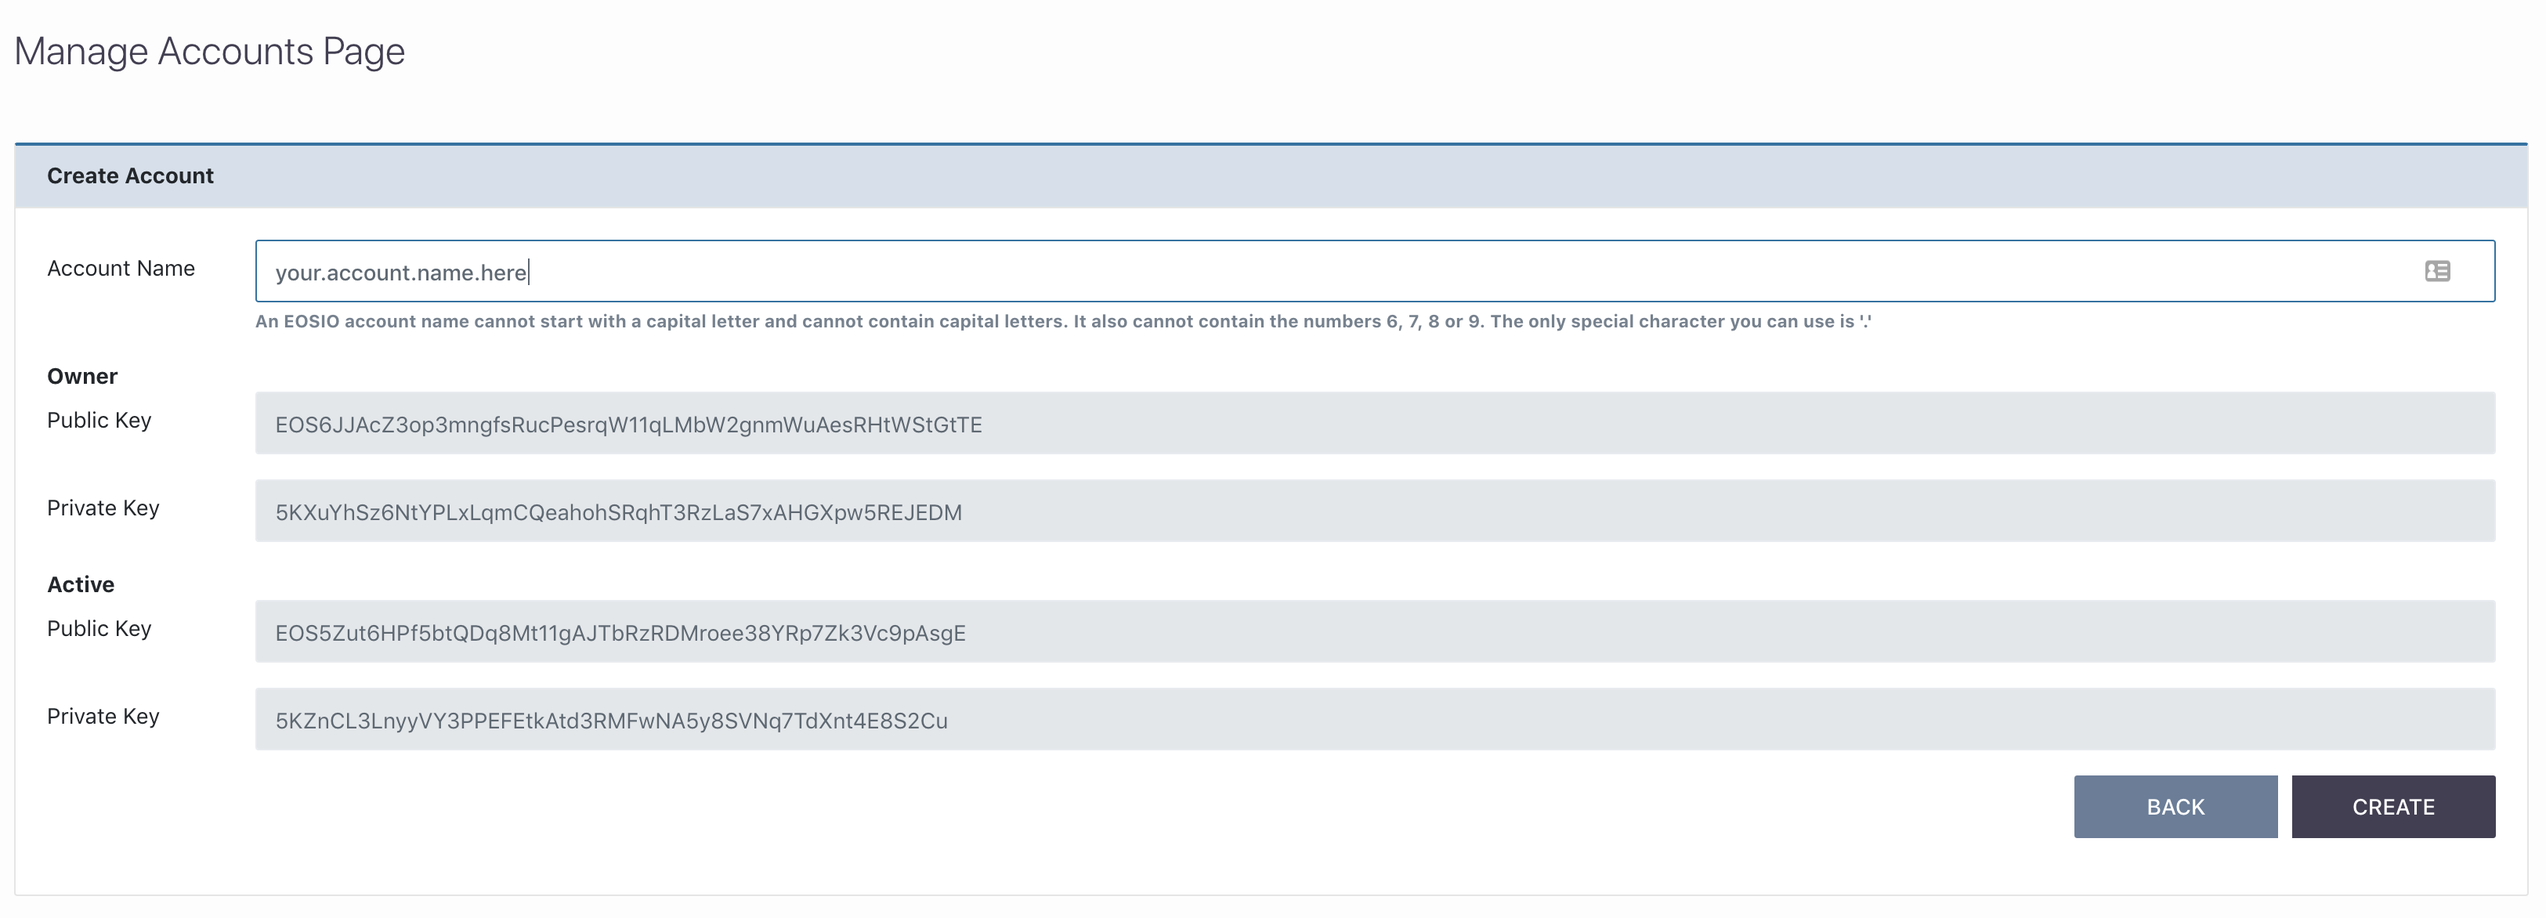
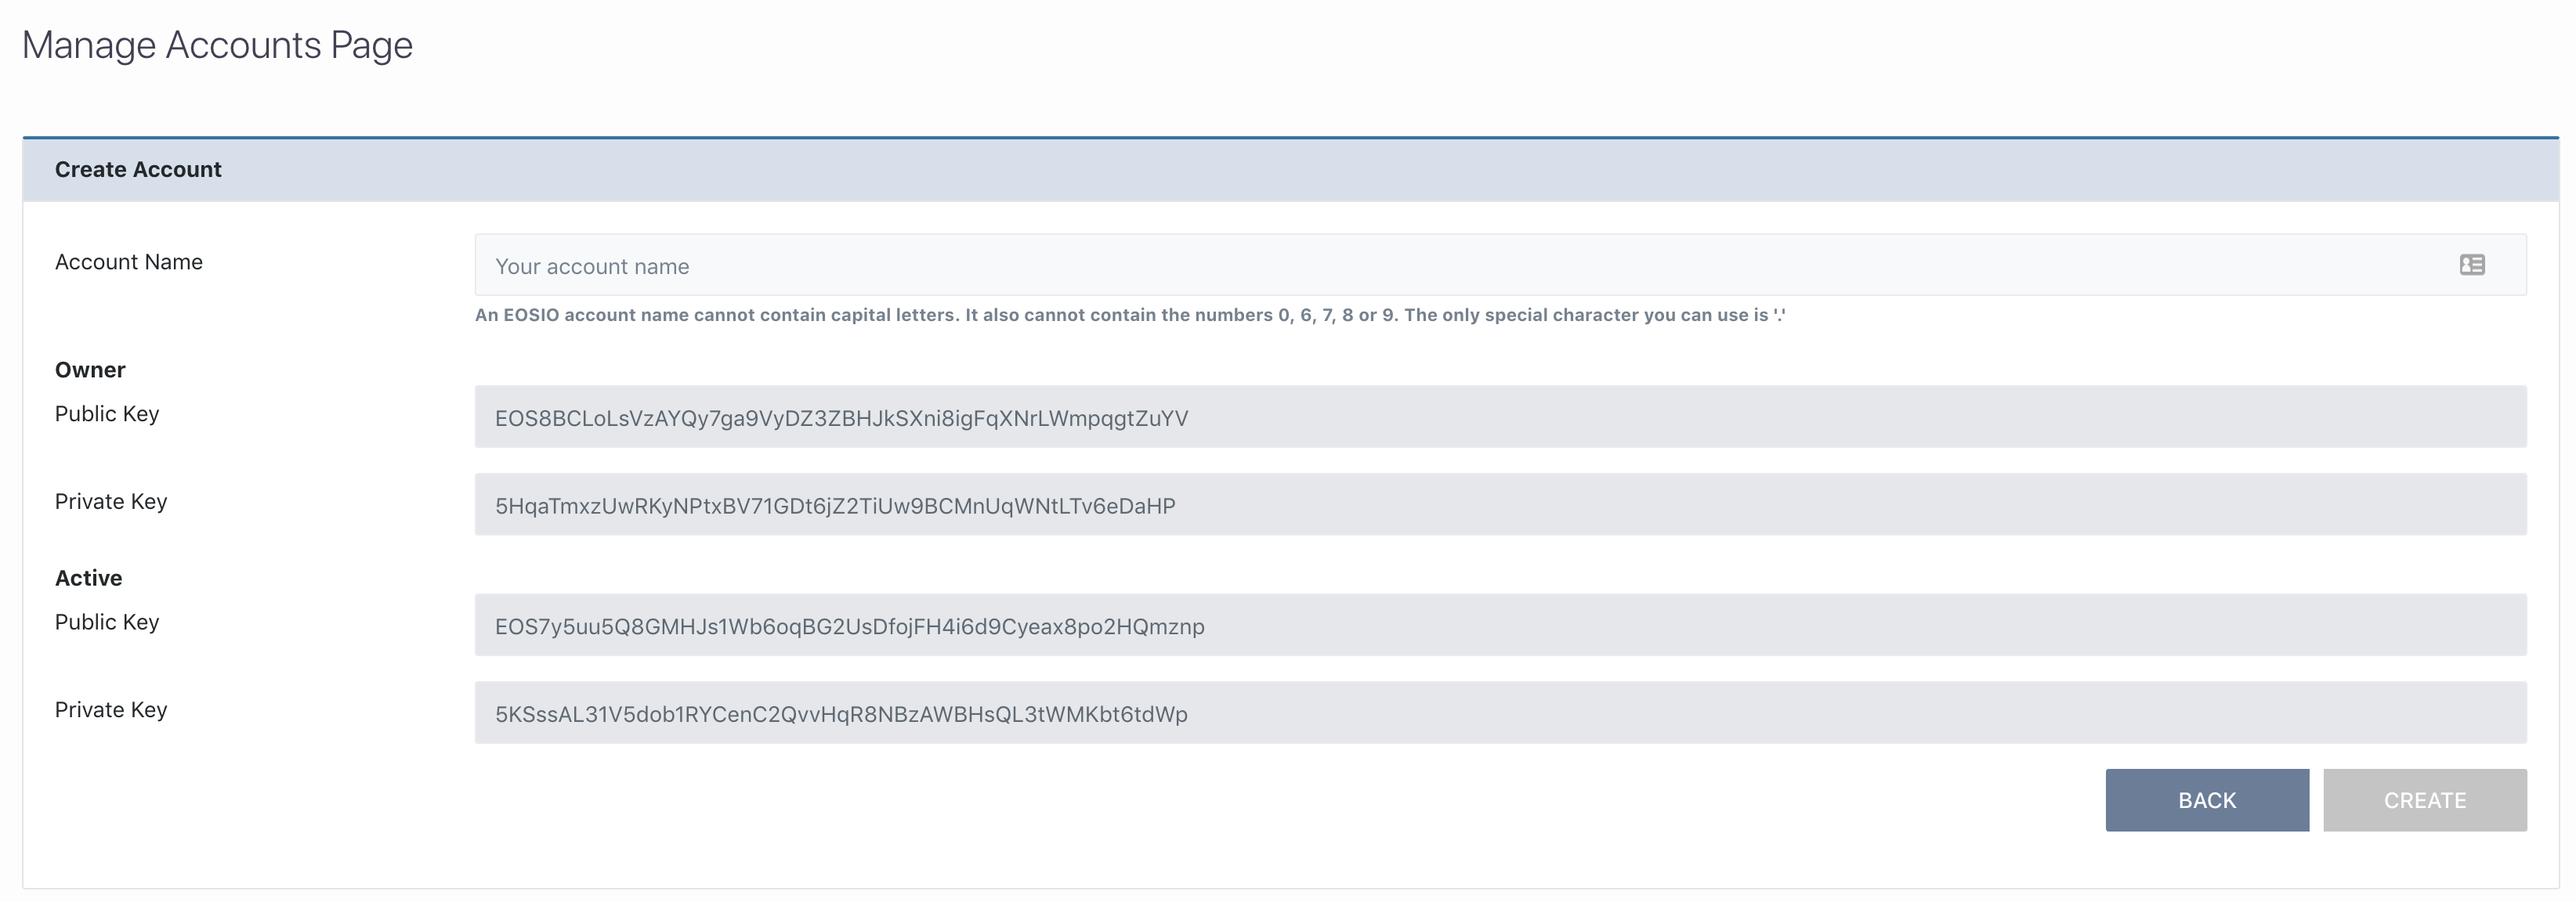
Incoming doc update (#123)
* Update main README.md

* Rewrite section on init and start commands for eosio-explorer, update pictures in push action page

* Updated pictures for permissions page

* Small doc updates

* Added new --set-endpoints option to start and init command description

* Update docs abot init command

* Update start commands

* Update init command details

diff --git a/README.md b/README.md
@@ -17,13 +17,15 @@
    * [Main EOSIO Dependencies](#main-eosio-dependencies)
    * [Platform Support](#platform-support)
    * [Required Tools](#required-tools)
+   * [Warning for Future Releases](#warning-for-future-releases)
 * [Installation](#installation)
    * [For Users](#for-users)
    * [For Contributors](#for-contributors)
    * [OS Platform Specific](#os-platform-specific)
 * [Usage](#usage)
-    * [Starting the tool](#starting-the-tool)
-    * [Stopping the tool](#stopping-the-tool)
+    * [Starting the Tool](#starting-the-tool)
+    * [Stopping the Tool](#stopping-the-tool)
+    * [Initializing with Sample Data](#initializing-with-sample-data)
     * [Modes](#modes)
     * [Using PM2 with the Tool](#using-pm2)
 * [Links to Documentation](#links-to-documentation)
@@ -84,6 +86,14 @@ The tool uses the following:
 :warning: - When using Docker for this tool, we require a minimum resource of **4 CPU, 8 GB memory allocation**.
 
 :warning: - Currently, the project supports `react-scripts v2.x.x` but **not** `react-scripts v3.x.x` in your global dependency (check `yarn global list`).
+
+### Warning for Future Releases 
+
+Applies to releases `> 0.3.1`:
+
+Originally, creating a local instance of `nodeos` using this tool would allow you to use an `eosio` account whose permission credentials are stored locally on the front-end. Specifically, it is hard-coded and could not be changed. However, moving forward, this `eosio` account will now be initialized in the database. **If you connect to a `nodeos` instance using an older version of this tool, you will no longer be able to access the default `eosio` permissions for that node** if you are using future versions of this tool. 
+
+For users or developers using older versions of this tool, **please update** as soon as possible and re-initialize your blockchain as to provide other users with the ability to use these permissions. Furthermore, you can choose to change the public keys of these `eosio` permissions and treat them as if they were normal accounts. **Keep in mind that doing this means you and any other users are now responsible for the new private keys, the tool will not keep track of the private keys for you if you change your connection.** 
 
 ## Installation
 
@@ -173,7 +183,10 @@ Commands:
                     --server-mode - Starts the blockchain environment for the tool without
                                     opening the web application
                     --clear-browser-storage - Starts the tool with clearing browser local storage
-                    -d / --delete - Removes existing Docker containers and clear the browser local storage
+                    -del / --delete - Removes existing Docker containers and clear the browser local storage
+                    Only available in production mode:
+                    --set-endpoints - Prompts user to input the existing nodeos and MongoDB instance endpoints to start the tool
+                    node=<nodeos_endpoint>  db=<mongodb_endpoint> - Starts the tool by connecting to the nodeos and MongoDB endpoints passed
                     Below flag(s) only work in development mode by git cloning the repo:
                     -dev / --develop - Starts the tool in development mode
                     -b / --build - Force building the gui of the tool
@@ -190,21 +203,62 @@ Commands:
 
 You can also add the `-h` flag to any of the commands listed above to view the available flags for each command within the terminal.
 
-### Starting the tool
+### Starting the Tool
 
-Below is a short explanation about the different ways to start the tool.
+There are the ways to start the tool depending on what you need or want to accomplish:
 
 ```bash
 eosio-explorer init
 ```
-This command will build the different docker images, remove existing data (in MongoDB, local Blockchain and Local Storage) and start the docker containers along with the application.
 
 ```bash
-eosio-explorer start
+eosio-explorer start 
 ```
-This command will start/resume the docker containers and the application.
 
-### Stopping the tool
+```bash
+eosio-explorer 
+```
+
+Running `eosio-explorer` without any command is equivalent to running `eosio-explorer start`
+
+This section will detail the specific differences between the two commands and help you decide when you should use one or the other.
+
+#### `init`
+
+The `init` command will perform the following operations when starting the tool:
+
+1. Create a config file which stores the Nodeos and MongoDB instance endpoint based on user selction.
+2. Setting up and copying the initial configurations for the tool
+3. Checking and building Docker images if necessary
+4. Check if package dependencies need to be installed. **This step won't execute if you have installed this tool with `yarn global`.**
+5. Clear the local storage, if it needs to be cleared. Otherwise, just provide the initial state
+6. Forcefully remove any existing Docker containers and volumes before starting new ones
+7. Operations indicated by command flags/options
+
+Therefore, you would want to use this command under these general circumstances:
+
+1. You just installed the tool
+2. You want to re-initialize the tool after installing an update (rebuilding Docker images, etc.)
+3. You want to completely wipe your blockchain and database, start from scratch.
+4. You want to re-initialize the tool after changing some configuration data
+
+#### `start`
+
+The `start` command will just do the following:
+
+1. Try to resume stopped Docker containers. **If no Docker containers exist, new ones will be started**. 
+2. Operations indicated by command flags/options
+
+Therefore, you would want to use this command under these general circumstances:
+
+1. You want to start the tool normally (without checking for updates)
+2. You have stopped Docker containers and want to resume a locally created blockchain
+
+Ideally, for each update installed, you want to run `init` command once, and then just use `start` thereafter. 
+
+Using the `start` command assumes you have already built and installed all necessary dependencies. 
+
+### Stopping the Tool
 
 :warning: - Proper way to pause/stop the docker containers is to use the below command, if you don't stop the docker containers properly then you may lose the data on the blockchain. Also, use this command and stop docker containers before shutting down the system to save data.
 
@@ -213,6 +267,19 @@ eosio-explorer stop_dockers
 ```
 
 Then use `eosio-explorer start` to resume/restart the docker containers.
+
+### Initializing with Sample Data 
+
+If you want to start or initialize a new blockchain with sample accounts, you can do the following:
+
+```bash
+eosio-explorer init --sample-data 
+eosio-explorer start --sample-data
+```
+
+If you aren't currently running an existing blockchain, the tool will then create your local `nodeos` instance with sample accounts already inserted into your database and blockchain. 
+
+:warning: - If you already have a blockchain running, whether it is stopped or not, the `--sample-data / -s` flag **will do nothing**. 
 
 ### Modes
 

diff --git a/docs/guides/permissions/update_account.md b/docs/guides/permissions/update_account.md
@@ -8,35 +8,19 @@ While this is a development tool, this possibility should never be discounted.
 
 In the Default Signature Account panel, you can see the list of accounts with public keys that you can change:
 
-![List of Accounts](../../images/permissions/accounts.png)
+![List of Accounts](../../images/permissions/create_acc_result.png)
 
-After checking which account you want to update, click the "EDIT" button corresponding to that account.
+After checking which account you want to update, click the "EDIT" button corresponding to that permission.
 
-:warning: - The default `eosio` account created when initializing the blockchain using our tool cannot be edited.
+:warning: - The default `eosio` account created using our tool **CAN** be edited, but do so at your own risk. The tool is only responsible for retaining the private key of the default public key provided with this tool. If you change the public key, **you** are now responsible for the private key of the account. 
 
 ## Updating Keys
 
-For instance, let us assume you want to update an account with the name `dragonfruit`. You would click the "EDIT" button corresponding to the `dragonfruit` account, which would take you to this panel:
+For instance, let us assume you want to update an account with the name `kingofhoodie`, and you want to change the active key of the account. You would select the "EDIT" button corresponding to the `kingofhoodie@active` permission:
 
 ![Update Keys](../../images/permissions/edit_acc_before.png)
 
-:mag_right: 
-
-From here, there are three possible things you can do:
-
-1. Update only the public key of the `active` permission
-2. Update only the public key of the `owner` permission
-3. Update both `active` and `owner` public keys
-
-If you decide to click "SUBMIT" without changing anything, the form will inform you that the keys have not changed and thus no action will be performed.
-
-:mag_right:
-
-For purposes of this guide, let's assume you want to change both `active` and `owner` keys like this:
-
-![Filled Keys](../../images/permissions/edit_acc_mid.png)
-
-:warning: - The form will check if your public and private keys are valid. It will also check if the private keys you supply correctly match the new public key that you have used.
+You can then provide a new public and private keypair for this permission. Please verify that the permission you are changing is the correct one; it is visible in this form. 
 
 ### On Success
 
@@ -44,4 +28,4 @@ After pressing "SUBMIT", if the update has succeeded, you will see the success m
 
 ![Updated Keys](../../images/permissions/edit_acc_after.png)
 
-If you want to verify that the action has really gone through, you can either check the [action list page](../../pages/action-list-page.md) for `updateauth` actions or check the latest transactions in the [transaction list page](../../pages/transaction-list-page.md). Transactions that have modified your public keys should contain one `updateauth` action if you have only modified one key and two `updateauth` actions if you have modified both keys. 
+If you want to verify that the action has really gone through, you can either check the [action list page](../../pages/action-list-page.md) for `updateauth` actions or check the latest transactions in the [transaction list page](../../pages/transaction-list-page.md). 

diff --git a/docs/guides/permissions/import_account.md b/docs/guides/permissions/import_account.md
@@ -26,7 +26,7 @@ Finally, you should ensure your private keys are in `base58 WIF` format. `WIF` i
 
 1. Any keys shown in this guide are **purely** for demonstration purposes. Do not use them for your own purposes.
 2. Do not blindly share your private keys with anyone else, or leave them exposed.
-3. **For development purposes**, if your keys are freely shared, keep in mind keys can be changed at any time. If your keys get lost due to someone else replacing the public key, you may or may not be able to get the replacement private key. If you do get it, see the section on [importing a single key](#importing-a-single-key).
+3. **For development purposes**, if your keys are freely shared, keep in mind keys can be changed at any time. If your keys get lost due to someone else replacing the public key, you may or may not be able to get the replacement private key. 
 
 ### On Success
 
@@ -34,24 +34,4 @@ After successfully importing the keys, you will see the success messsage:
 
 ![Import Keys Panel](../../images/permissions/import_keys_after.png)
 
-Afterwards, you can see the new account in the main list of accounts.
-
-## Importing a Single Key
-
-If for some reason someone has changed the public key for the permission of an account you also own, you may find that your private key is lost, as the other person has already used their own private key.
-
-The account will then be listed in the Accounts to Import panel where you will need to click "Import Keys" as before. If one of the permissions has a modified public key, then your panel will likely look like this:
-
-![Import Single Keys Panel](../../images/permissions/import_single_key_before.png)
-
-If you are able to get the new private key, input as so:
-
-![Import Single Keys Panel Filled](../../images/permissions/import_single_key_mid.png)
-
-### On Success
-
-Click Submit afterwards, if it worked, you will see the success message:
-
-![Import Keys Panel](../../images/permissions/import_single_key_after.png)
-
-Afterwards, you can gain control over your account in the main list of accounts.
+Afterwards, you can see the new permission in the main list of permissions.

diff --git a/docs/guides/push-action/README.md b/docs/guides/push-action/README.md
@@ -67,6 +67,12 @@ In the upper left corner of the panel, you can see a dropdown menu listing the c
 
 ![Filter Dropdown](../../images/push-action/filter.png)
 
-Here is what you should see if you, for instance, decided to check all actions belonging only to the `dinosaur1311` contract, showing 20 rows at a time:
+Here is what you should see if you, for instance, decided to check all actions belonging only to the `eosio` contract:
 
 ![Filter Result](../../images/push-action/filter_result.png)
+
+## Success Indicator
+
+The Action History Viewer will list whether your action has been successfully pushed or not. If it failed, hovering over the failure icon will provide a tooltip that may tell you why the action failed. If the error is not known, then the tool will inform you that an error has occurred without specifying what the error actually was.
+
+![Success Indicator](../../images/push-action/success-indicator.png)

diff --git a/docs/pages/interact/manage-accounts-page.md b/docs/pages/interact/manage-accounts-page.md
@@ -4,6 +4,8 @@
 
 In this page, you are able to get a listing of all the currently available accounts on the blockchain. When you start a local instance of nodeos, you will gain access to an `eosio` account which runs the EOSIO System Contracts which are responsible for important functions on the blockchain, including the creation of new accounts (via the `newaccount` action). You can create new accounts, update existing accounts or reset/clear all current permissions on this page. 
 
+Note, permissions are listed one by one which means if the private key for one of the permissions of an account is lost, this permission will be shown in the "Import Account" section while the other permission will remain as a selectable permission for you to use or to to update.
+
 ## Available Actions
 
 Above the two main panels in this page are buttons that allow you to perform various actions regarding account management.
